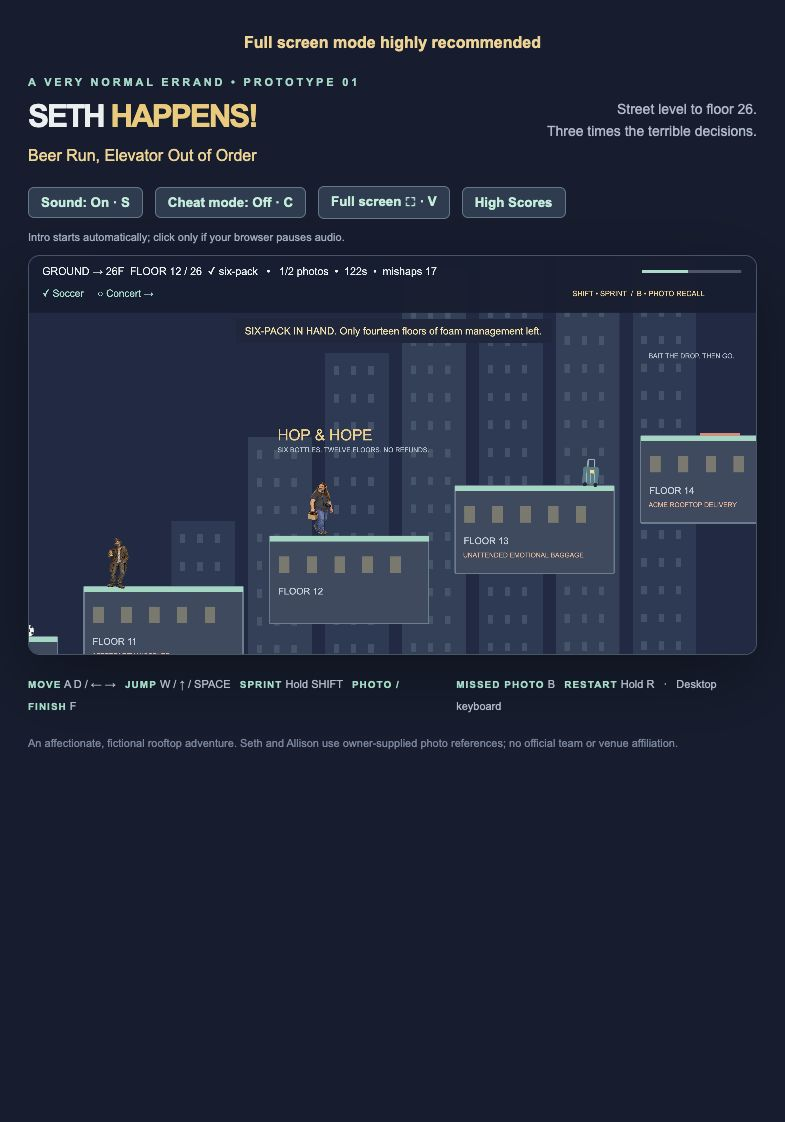
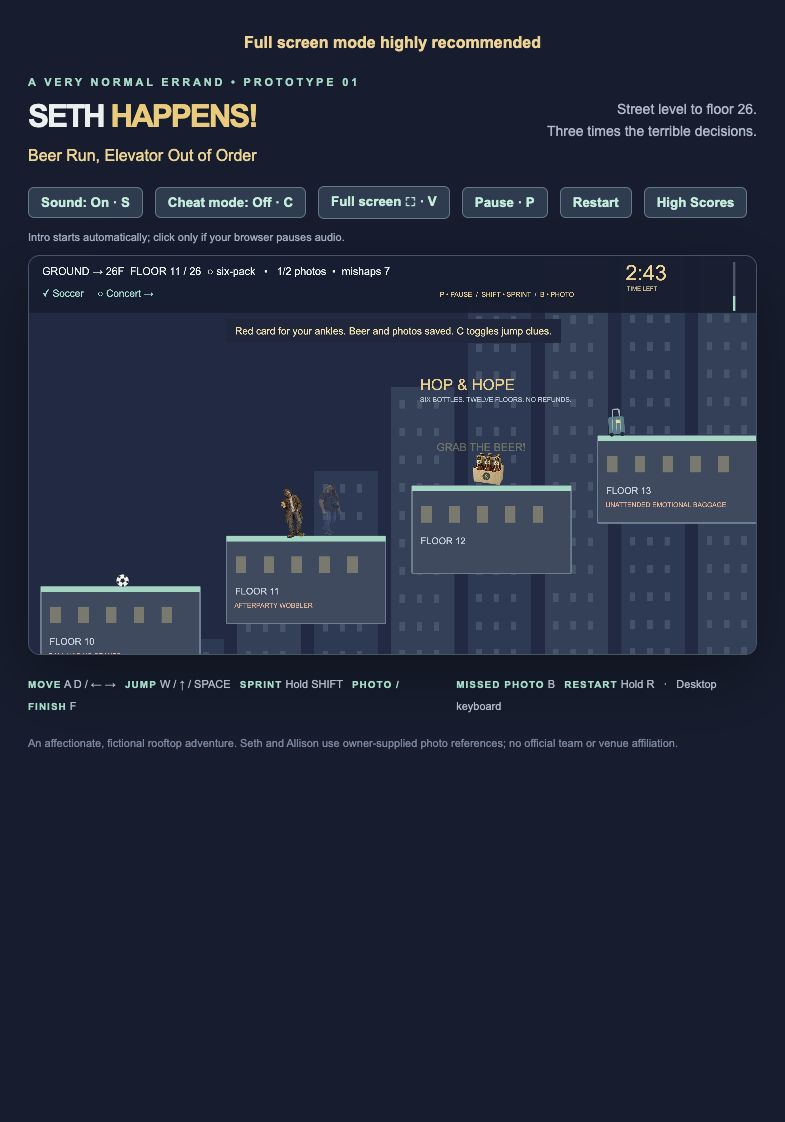
Improve pause, charged jumps, HUD and finish layouts

Changed region(s): [[0.0306, 0.156, 0.9783, 0.5927], [0.3669, 0.2184, 0.5197, 0.2496], [0.2446, 0.2184, 0.3057, 0.2496]]

diff --git a/src/main.ts b/src/main.ts
@@ -5,7 +5,7 @@ import { impactEffects } from './impact-effects';
 import { gameAudio } from './audio';
 import { soccerBall, steelKeg, sixPack } from './props';
 import { walkLayout } from './art-layout';
-import { fallDecision, runExpired, RUN_LIMIT_MS, SPRINT_SPEED, timeBonus, finalScore, roadLandingIsFall, fallingStep, patrolX, EGG, fallingAssignments, floors, photoStops, beerSpot, recordMishap, RESTART_HOLD_MS, missing, missedPhotos, photoIndicator, LEVEL_WIDTH, GROUND_Y, ROAD, objectImpactReaction } from './mission.mjs';
+import { MEGA_CHARGE_MS, REGULAR_JUMP_SPEED, MEGA_JUMP_SPEED, jumpChoice, countdownLabel, fallDecision, runExpired, RUN_LIMIT_MS, SPRINT_SPEED, timeBonus, finalScore, roadLandingIsFall, fallingStep, patrolX, EGG, fallingAssignments, floors, photoStops, beerSpot, recordMishap, RESTART_HOLD_MS, missing, missedPhotos, photoIndicator, LEVEL_WIDTH, GROUND_Y, ROAD, FLOOR_RISE, objectImpactReaction } from './mission.mjs';
 
 const W = 1100, H = 600;
 // Render at display density, retaining the same logical play area and physics.
@@ -25,7 +25,9 @@ class Errand extends Phaser.Scene {
   progress!: Phaser.GameObjects.Rectangle;
   crate!: Phaser.GameObjects.Container; hero!: Phaser.GameObjects.Container; portrait!: Phaser.GameObjects.Sprite;
   elapsedMs=0;failed=false;cheater=false;riding=false;rideTween?:Phaser.Tweens.Tween;
-  jumpStartedAt=0;jumpVoiced=true;jumpCount=0;
+  chargeStarted=-1;jumpCount=0;
+  paused=false;pauseStarted=0;pauseOverlay!:Phaser.GameObjects.Container;chargeMeter!:Phaser.GameObjects.Container;chargeFill!:Phaser.GameObjects.Rectangle;
+  timerText!:Phaser.GameObjects.Text;
   eggStage=0;eggPreviousX=75;eggBall!:Phaser.GameObjects.Container;eggLift!:Phaser.GameObjects.Container;
   eggLabel!:Phaser.GameObjects.Text;liftHint!:Phaser.GameObjects.Text;eggBlocks:Phaser.GameObjects.Rectangle[]=[];
   scorePaused=false;
@@ -42,6 +44,7 @@ class Errand extends Phaser.Scene {
   preload(){
     this.load.spritesheet('seth-walk','./assets/seth-walk.png',walkLayout);
     this.load.image('allison','./assets/allison.png');
+    this.load.image('beer-pickup','./assets/beer-pickup.png');
     this.load.image('title-logo','./assets/title-logo.png');
     this.load.image('clown','./assets/clown.png');
     this.load.image('scruffy','./assets/scruffy-pedestrian.png');
@@ -54,7 +57,7 @@ class Errand extends Phaser.Scene {
     resetScoreEntry();this.scorePaused=false;
     this.input.keyboard!.enabled=true;
     this.elapsedMs=0;this.failed=false;this.cheater=false;this.riding=false;this.rideTween=undefined;
-    this.jumpStartedAt=0;this.jumpVoiced=true;this.jumpCount=0;this.eggStage=0;this.eggPreviousX=75;this.eggBlocks=[];
+    this.chargeStarted=-1;this.jumpCount=0;this.paused=false;this.eggStage=0;this.eggPreviousX=75;this.eggBlocks=[];
     this.mishaps={falls:0,squishes:0,bumps:0};this.restartSince=null;
     this.runVersion++;this.onRoad=true;this.fallSoundPlayed=false;this.heroHeard=false;this.heroPlaying=false;
     gameAudio.beginRun();this.introActive=true;this.introStarted=false;
@@ -74,7 +77,7 @@ class Errand extends Phaser.Scene {
     this.label(12,ROAD.y+76,'ROAD • START HERE','#e9d2a0',12);
     this.label(12,ROAD.y+98,'Jump onto floor 01 →','#aec3d0',10);
     for(const f of floors.slice(1)){
-      const facadeHeight=f.floor===1?ROAD.y-f.y+95:Math.max(14,Math.min(132,ROAD.y-f.y-86));
+      const facadeHeight=f.floor===1?ROAD.y-f.y:Math.max(14,Math.min(132,ROAD.y-f.y-86));
       this.add.rectangle(f.x+f.width/2,f.y+facadeHeight/2,f.width,facadeHeight,0x344b61).setStrokeStyle(2,0x607d91);
       const ledge=this.add.rectangle(f.x+f.width/2,f.y+4,f.width,8,0x78dbc3,0);
       platforms.add(ledge);
@@ -102,27 +105,38 @@ class Errand extends Phaser.Scene {
     for(const [key,frames] of [['walk-empty',[0,1,2,3]],['walk-beer',[4,5,6,7]]] as const){
       if(!this.anims.exists(key))this.anims.create({key,frames:frames.map(frame=>({key:'seth-walk',frame})),frameRate:8,repeat:-1});
     }
-    this.hero.add(this.portrait).setDepth(5);
+    this.chargeFill=this.add.rectangle(-22,-96,0,5,0xffcc7b).setOrigin(0,.5);
+    this.chargeMeter=this.add.container(0,0,[this.add.rectangle(0,-96,46,8,0x102137),this.chargeFill,this.label(-34,-116,'MEGA CHARGE','#ffd08b',9)]).setVisible(false);
+    this.hero.add([this.portrait,this.chargeMeter]).setDepth(5);
     this.physics.world.setBounds(0,0,LEVEL_WIDTH,GROUND_Y+800);
     this.cameras.main.setBounds(0,300,LEVEL_WIDTH,GROUND_Y+240-300);
     this.cameras.main.startFollow(this.player,true,.12,.12,-120,90);
-    this.keys=this.input.keyboard!.addKeys('A,D,W,LEFT,RIGHT,UP,SPACE,F,R,B,S,C,SHIFT') as Record<string,Phaser.Input.Keyboard.Key>;
+    this.keys=this.input.keyboard!.addKeys('A,D,W,LEFT,RIGHT,UP,SPACE,F,R,B,S,C,SHIFT,P') as Record<string,Phaser.Input.Keyboard.Key>;
     this.input.keyboard!.addCapture(['SPACE','UP','DOWN','LEFT','RIGHT']);
     const cheatButton=document.getElementById('cheat-toggle') as HTMLButtonElement;
     cheatButton.disabled=this.introActive;
     cheatButton.onclick=()=>{this.toggleCheats();cheatButton.blur();};
+    const pauseButton=document.getElementById('pause-toggle') as HTMLButtonElement;
+    pauseButton.textContent='Pause · P';pauseButton.setAttribute('aria-pressed','false');
+    const restartButton=document.getElementById('restart-run') as HTMLButtonElement;
+    restartButton.disabled=true;restartButton.onclick=()=>{restartButton.blur();this.scene.restart();};
+    pauseButton.disabled=true;pauseButton.onclick=()=>{this.togglePause();pauseButton.blur();};
     this.syncCheatButton();
-    this.input.keyboard!.on('keydown',()=>{if(scoresOpen())return;if(this.introActive){void gameAudio.unlock();void this.startIntro();}else void gameAudio.unlock();});
-    this.input.on('pointerdown',()=>{if(this.introActive){void gameAudio.unlock();void this.startIntro();}else void gameAudio.unlock();});
+    this.input.keyboard!.on('keydown',(event:KeyboardEvent)=>{if(scoresOpen()||this.paused||event.code==='KeyP')return;if(this.introActive){void gameAudio.unlock();void this.startIntro();}else void gameAudio.unlock();});
+    this.input.on('pointerdown',()=>{if(this.paused)return;if(this.introActive){void gameAudio.unlock();void this.startIntro();}else void gameAudio.unlock();});
     const pattern: [number,HazardKind][] = [[2,'keg'],[3,'partier'],[4,'ball'],[5,'pigeon'],[8,'keg'],[9,'clown'],[10,'ball'],[11,'partier'],[13,'suitcase'],[15,'ball'],[16,'cone'],[18,'clown'],[19,'keg'],[21,'pigeon'],[22,'suitcase'],[24,'ball'],[25,'partier']];
     pattern.push(...fallingAssignments as [number,HazardKind][]);
     pattern.forEach(([floor,kind])=>this.addHazard(floor,kind));
     this.add.rectangle(W/2,42,W,84,0x101e32,.97).setScrollFactor(0).setDepth(10);
+    this.timerText=this.label(900,7,'3:00','#ffd08b',32).setScrollFactor(0).setDepth(12);
+    this.label(902,43,'TIME LEFT','#d0b58e',9).setScrollFactor(0).setDepth(12);
     this.hud=this.label(20,13,'','#eaf3f1',16).setScrollFactor(0).setDepth(11);
     this.photoHud=this.label(20,47,'','#80e5ce',15).setScrollFactor(0).setDepth(11);
-    this.label(820,49,'SHIFT • SPRINT  /  B • PHOTO RECALL','#ffcf8a',11).setScrollFactor(0).setDepth(11);
-    this.add.rectangle(1000,22,150,5,0x43586b).setScrollFactor(0).setDepth(11);
-    this.progress=this.add.rectangle(925,22,0,5,0x7ee0c5).setOrigin(0,.5).setScrollFactor(0).setDepth(12);
+    this.label(620,51,'P • PAUSE  /  SHIFT • SPRINT  /  B • PHOTO','#ffcf8a',10).setScrollFactor(0).setDepth(11);
+    this.label(1064,4,'26F','#b7d4d8',9).setOrigin(.5,0).setScrollFactor(0).setDepth(12);
+    this.label(1064,68,'0F','#b7d4d8',9).setOrigin(.5,0).setScrollFactor(0).setDepth(12);
+    this.add.rectangle(1064,43,4,44,0x43586b).setScrollFactor(0).setDepth(11);
+    this.progress=this.add.rectangle(1064,65,4,44,0x7ee0c5).setOrigin(.5,1).setScrollFactor(0).setDepth(12);
     this.toast=this.add.text(W/2,112,'Allison: “Ground floor. Beer. Two photos. Meet us at 2601. The elevator quit.”',{fontFamily:'Arial',fontSize:'15px',color:'#ffe0a3',backgroundColor:'#16283e',padding:{x:14,y:10},align:'center'}).setOrigin(.5).setScrollFactor(0).setDepth(12);
     this.prompt=this.add.text(W/2,555,'',{fontFamily:'Arial',fontSize:'16px',color:'#102c39',backgroundColor:'#7ce3c5',padding:{x:14,y:9},align:'center'}).setOrigin(.5).setScrollFactor(0).setDepth(12).setVisible(false);
     this.showIntro();
@@ -160,6 +174,8 @@ class Errand extends Phaser.Scene {
     if(!this.sys.isActive())return;
     this.introActive=false;this.introOverlay.destroy();
     (document.getElementById('cheat-toggle') as HTMLButtonElement).disabled=false;
+    (document.getElementById('pause-toggle') as HTMLButtonElement).disabled=false;
+    (document.getElementById('restart-run') as HTMLButtonElement).disabled=false;
     this.lastGround=-1000;this.jumpUntil=0;
     for(const key of Object.values(this.keys))key.reset();
     this.physics.world.resume();
@@ -204,7 +220,7 @@ class Errand extends Phaser.Scene {
     const at=(floor:number)=>floors[floor];
     this.label(20,GROUND_Y-182,'THE ONLY WAY IS UP.', '#ffce88',23);
     this.label(20,GROUND_Y-150,'Allison & the cats are waiting at 2601.', '#b9d1df',13);
-    this.label(20,GROUND_Y-125,'Hold jump for height. Shift to sprint. C for clues.', '#7ee0c6',12);
+    this.label(20,GROUND_Y-125,'Tap jump • hold 0.65s for mega • Shift sprint', '#7ee0c6',12);
     this.label(20,GROUND_Y-102,'F at photo signs • Dodge the hazards', '#b9d1df',12);
     this.add.rectangle(29,ROAD.y-48,50,96,0x42566c).setStrokeStyle(2,0x91aabd);
     this.add.rectangle(29,ROAD.y-48,1,92,0x91aabd);
@@ -220,7 +236,7 @@ class Errand extends Phaser.Scene {
     this.add.rectangle(soccer.x+205,soccer.y-43,43,76,0x94bdc8,0).setStrokeStyle(3,0xd8e9df);
     soccerBall(this,soccer.x+201,soccer.y-10);
     const brew=at(12);this.label(brew.x+12,brew.y-165,'HOP & HOPE', '#ffcc84',23);this.label(brew.x+12,brew.y-136,'SIX BOTTLES. TWELVE FLOORS. NO REFUNDS.','#b1c6d4',10);
-    this.crate=sixPack(this,beerSpot.x,brew.y-14).setScale(.95);
+    this.crate=this.add.container(beerSpot.x,brew.y,[this.add.image(0,0,'beer-pickup').setOrigin(.5,1).setDisplaySize(52,52)]);
     this.beerHint=this.label(beerSpot.x-78,brew.y-67,'GRAB THE BEER!','#ffda78',16).setDepth(6);
     this.tweens.add({targets:this.beerHint,alpha:.3,duration:400,yoyo:true,repeat:-1});
     const concert=at(17);this.label(concert.x+8,concert.y-204,'THE EXPOSURE TRIANGLE', '#d5b6f2',17);this.label(concert.x+8,concert.y-180,'LIVE MUSIC BREAK','#9fb9cb',10);
@@ -319,15 +335,39 @@ class Errand extends Phaser.Scene {
   say(t:string){this.toast.setText(t);}
   retry(time:number,reason:string,reaction:'fall'|'person'|'object'|'squish'='object'){
     this.mishaps=recordMishap(this.mishaps,reaction);
+    this.chargeStarted=-1;this.chargeMeter.setVisible(false);
     this.retries++;(this.player.body as Phaser.Physics.Arcade.Body).reset(this.checkpoint.x,this.checkpoint.y);this.player.setVelocity(0,0);this.immuneUntil=time+1400;this.lastGround=-1000;this.jumpUntil=0;
     gameAudio.play('impact');if(reaction==='fall'&&!this.fallSoundPlayed)gameAudio.speak('Aaaaaah!','fall');if(reaction==='squish')gameAudio.speak('Squish!','squish');if(reaction==='person')gameAudio.speak('Well, excuse you.','person');if(reaction==='object'){const kind=objectImpactReaction(Math.random());gameAudio.speak(kind==='ouch'?'Ouch!':'Ahh!',kind);}this.cameras.main.shake(100,.003);this.say(reason+' Beer and photos saved. C toggles jump clues.');this.fallSoundPlayed=false;
   }
+  togglePause(){
+    if(this.introActive||this.won||this.failed||scoresOpen())return;
+    this.paused=!this.paused;
+    const button=document.getElementById('pause-toggle')!;
+    button.textContent=this.paused?'Resume · P':'Pause · P';button.setAttribute('aria-pressed',String(this.paused));
+    this.chargeStarted=-1;this.chargeMeter.setVisible(false);
+    if(this.paused){
+      this.pauseStarted=this.time.now;this.physics.world.pause();this.tweens.pauseAll();void gameAudio.setPaused(true);
+      this.pauseOverlay=this.add.container(0,0,[
+        this.add.rectangle(W/2,H/2,W,H,0x102137,.88),
+        this.add.text(W/2,265,'PAUSED',{fontFamily:'Arial',fontSize:'54px',fontStyle:'bold',color:'#ffd08b'}).setOrigin(.5),
+        this.add.text(W/2,330,'P or Resume to continue',{fontFamily:'Arial',fontSize:'21px',color:'#c9dde7'}).setOrigin(.5)
+      ]).setScrollFactor(0).setDepth(70);this.sharpenDisplay();
+    }else{
+      const duration=this.time.now-this.pauseStarted;this.immuneUntil+=duration;this.lastGround=-1000;this.jumpUntil=0;
+      this.pauseOverlay.destroy();this.tweens.resumeAll();void gameAudio.setPaused(false);
+      for(const key of Object.values(this.keys))key.reset();
+      if(!this.riding)this.physics.world.resume();
+    }
+  }
   updateHud(){
+    const progressFloor=this.riding?(ROAD.y-this.player.y-24)/FLOOR_RISE:this.floor;
+    this.progress.setSize(4,44*Phaser.Math.Clamp(progressFloor/26,0,1)).setOrigin(.5,1).setVisible(progressFloor>0);
     const remaining=Math.max(0,Math.ceil((RUN_LIMIT_MS-this.elapsedMs)/1000));
-    this.hud.setText(`GROUND → 26F  ${this.onRoad?'ROAD':`FLOOR ${this.floor} / 26`}  ${missing(this.beer,this.photos)}  •  ${remaining}s  •  mishaps ${this.retries}`);
-    this.hud.setColor(remaining<=20?'#ffac8c':'#eaf3f1');
+    this.hud.setText(`GROUND → 26F  ${this.onRoad?'ROAD':`FLOOR ${this.floor} / 26`}  ${missing(this.beer,this.photos)}  •  mishaps ${this.retries}`);
+    this.timerText.setText(countdownLabel(this.elapsedMs)).setColor(remaining<=20?'#ff7e79':'#ffd08b');
   }
   failRun(){
+    (document.getElementById('pause-toggle') as HTMLButtonElement).disabled=true;
     this.failed=true;gameAudio.cancelRide();this.riding=false;this.rideTween?.stop();this.player.setVelocity(0,0);
     this.physics.world.pause();this.prompt.setVisible(false);
     this.add.rectangle(W/2,H/2,W,220,0x102137,.97).setScrollFactor(0).setDepth(40);
@@ -407,6 +447,8 @@ class Errand extends Phaser.Scene {
 
   update(time:number,delta:number){
     if(!this.player)return;
+    if(Phaser.Input.Keyboard.JustDown(this.keys.P))this.togglePause();
+    if(this.paused){const live=document.getElementById('live-status');if(live){live.dataset.paused='true';live.dataset.sound=gameAudio.state;live.textContent='Paused. Press P to resume.';}return;}
     if(scoresOpen()){this.physics.world.pause();this.input.keyboard!.enabled=false;this.scorePaused=true;return;}
     if(this.scorePaused){this.input.keyboard!.enabled=true;this.scorePaused=false;for(const key of Object.values(this.keys))key.reset();if(!this.introActive&&!this.failed&&!this.won)this.physics.world.resume();}
     if(Phaser.Input.Keyboard.JustDown(this.keys.S))gameAudio.toggle();
@@ -415,7 +457,7 @@ class Errand extends Phaser.Scene {
     if(!this.won&&!this.failed&&runExpired(this.elapsedMs))this.failRun();
     if(this.riding){
       this.updateHud();const live=document.getElementById('live-status');
-      if(live){live.dataset.riding='true';live.dataset.elapsed=String(Math.round(this.elapsedMs));live.textContent='Elevator ascending to floor 26. '+this.hud.text;}
+      if(live){live.dataset.riding='true';live.dataset.x=String(Math.round(this.player.x));live.dataset.y=String(Math.round(this.player.y));live.dataset.elapsed=String(Math.round(this.elapsedMs));live.textContent='Elevator ascending to floor 26. '+this.hud.text;}
       return;
     }
     if(Phaser.Input.Keyboard.JustDown(this.keys.C))this.toggleCheats();
@@ -441,16 +483,21 @@ class Errand extends Phaser.Scene {
           else{this.fallSoundPlayed=false;this.onRoad=landed.floor===0;this.floor=landed.floor;this.checkpoint={x:landed.floor===0?this.player.x:landed.x+50,y:landed.y-24};}
         }
       }
+      const jumpHeld=['W','UP','SPACE'].some(k=>this.keys[k].isDown);
       if(['W','UP','SPACE'].some(k=>Phaser.Input.Keyboard.JustDown(this.keys[k])))this.jumpUntil=time+130;
-      if(this.jumpUntil>time&&time-this.lastGround<110){gameAudio.play('jump');this.jumpStartedAt=time;this.jumpVoiced=false;this.jumpCount++;this.player.setVelocityY(-520);this.jumpUntil=0;this.lastGround=-1000;}
-      if(!this.jumpVoiced){
-        const held=['W','UP','SPACE'].some(k=>this.keys[k].isDown);
-        if(!held||time-this.jumpStartedAt>=120){
-          gameAudio.speak(held?'Jump grunt':'Quick hop',held?'grunt':'quick',undefined,false,this.jumpCount%2?.97:1.04);
-          this.jumpVoiced=true;
+      if(this.chargeStarted<0&&this.jumpUntil>time&&time-this.lastGround<110){this.chargeStarted=this.elapsedMs;this.jumpUntil=0;}
+      if(this.chargeStarted>=0&&!body.blocked.down&&time-this.lastGround>=110){this.chargeStarted=-1;this.chargeMeter.setVisible(false);}
+      if(this.chargeStarted>=0){
+        const charge=this.elapsedMs-this.chargeStarted;
+        const choice=jumpChoice(charge,!jumpHeld);
+        this.chargeMeter.setVisible(true);this.chargeFill.width=44*Math.min(charge/MEGA_CHARGE_MS,1);
+        if(choice!=='charging'){
+          this.player.setVelocityY(-(choice==='mega'?MEGA_JUMP_SPEED:REGULAR_JUMP_SPEED));
+          this.player.setVelocityX(direction*(this.keys.SHIFT.isDown?SPRINT_SPEED:275));
+          this.chargeStarted=-1;this.chargeMeter.setVisible(false);this.lastGround=-1000;this.jumpCount++;
+          gameAudio.play('jump');gameAudio.speak(choice==='mega'?'Mega jump':'Quick hop',choice==='mega'?'grunt':'quick',undefined,false,this.jumpCount%2?.97:1.04);
         }
       }
-      if(!['W','UP','SPACE'].some(k=>this.keys[k].isDown)&&body.velocity.y < -230)this.player.setVelocityY(-230);
       this.player.x=Phaser.Math.Clamp(this.player.x,14,LEVEL_WIDTH-14);
       if(!this.fallSoundPlayed&&fallDecision(this.floor,body.bottom,body.velocity.y).scream){this.fallSoundPlayed=true;gameAudio.speak('Aaaaaah!','fall');}
       if(fallDecision(this.floor,body.bottom,body.velocity.y).retry)this.retry(time,'Gravity got the shot.','fall');
@@ -519,28 +566,27 @@ class Errand extends Phaser.Scene {
     else{this.portrait.stop();this.portrait.setFrame(this.beer?(body.blocked.down?5:4):(body.blocked.down?1:0));}
     this.portrait.setFlipX(this.facing<0).setY(24);
     this.hero.setAlpha(time<this.immuneUntil?(Math.floor(time/100)%2?.35:1):1);
-    this.progress.width=150*this.floor/26;
     this.updateHud();
     const indicator=photoIndicator(this.player.x,this.photos),hasMissed=missedPhotos(this.player.x,this.photos).length>0;
     this.photoHud.setText(indicator).setColor(hasMissed?'#ffac8c':'#80e5ce');
     const status=document.getElementById('live-status');
     const summary=`${this.hud.text}. ${indicator}. ${this.toast.text}${this.won?' Mission complete.':''}`;
-    if(status){status.dataset.floor=String(this.floor);status.dataset.elapsed=String(Math.round(this.elapsedMs));status.dataset.eggStage=String(this.eggStage);status.dataset.riding=String(this.riding);status.dataset.failed=String(this.failed);status.dataset.score=String(finalScore(this.beer,this.photos,this.mishaps,this.latePhotos,this.elapsedMs,this.cheater));status.dataset.falls=String(this.mishaps.falls);status.dataset.squishes=String(this.mishaps.squishes);status.dataset.bumps=String(this.mishaps.bumps);status.dataset.won=String(this.won);status.dataset.intro='false';status.dataset.heroPlaying=String(this.heroPlaying);status.dataset.fallSound=String(this.fallSoundPlayed);if(status.textContent!==summary)status.textContent=summary;status.dataset.x=String(Math.round(this.player.x));status.dataset.y=String(Math.round(this.player.y));status.dataset.grounded=String(body.blocked.down);status.dataset.walkFrame=String(this.portrait.frame.name);status.dataset.walkFrames=[...this.visitedWalkFrames].sort().join(',');status.dataset.carrying=String(this.beer);status.dataset.sound=gameAudio.state;status.dataset.muted=String(gameAudio.muted);status.dataset.lastCue=gameAudio.lastCue;status.dataset.voiceLine=gameAudio.lastSpoken;status.dataset.voiceStatus=gameAudio.voiceStatus;status.dataset.voiceName=gameAudio.voiceName;status.dataset.loadedVoices=String(gameAudio.loadedVoiceCount);status.dataset.playedVoices=[...gameAudio.playedKinds].sort().join(',');status.dataset.locationCue=gameAudio.lastLocation;status.dataset.heardLocations=[...this.heardLocations].sort().join(',');status.dataset.cheatMode=String(this.cheatMode);status.dataset.jumpClues=String(this.jumpClues.filter(clue=>clue.visible).length);const nearbyPiano=this.hazards.find(h=>h.kind==='piano'&&h.floor===this.floor);status.dataset.pianoDrops=String(nearbyPiano?.piano?.serial??0);status.dataset.pianoVisible=String(nearbyPiano?.art.visible??false);}
+    if(status){status.dataset.paused='false';status.dataset.charging=String(this.chargeStarted>=0);status.dataset.floor=String(this.floor);status.dataset.elapsed=String(Math.round(this.elapsedMs));status.dataset.eggStage=String(this.eggStage);status.dataset.riding=String(this.riding);status.dataset.failed=String(this.failed);status.dataset.score=String(finalScore(this.beer,this.photos,this.mishaps,this.latePhotos,this.elapsedMs,this.cheater));status.dataset.falls=String(this.mishaps.falls);status.dataset.squishes=String(this.mishaps.squishes);status.dataset.bumps=String(this.mishaps.bumps);status.dataset.won=String(this.won);status.dataset.intro='false';status.dataset.heroPlaying=String(this.heroPlaying);status.dataset.fallSound=String(this.fallSoundPlayed);if(status.textContent!==summary)status.textContent=summary;status.dataset.x=String(Math.round(this.player.x));status.dataset.y=String(Math.round(this.player.y));status.dataset.grounded=String(body.blocked.down);status.dataset.walkFrame=String(this.portrait.frame.name);status.dataset.walkFrames=[...this.visitedWalkFrames].sort().join(',');status.dataset.carrying=String(this.beer);status.dataset.sound=gameAudio.state;status.dataset.muted=String(gameAudio.muted);status.dataset.lastCue=gameAudio.lastCue;status.dataset.voiceLine=gameAudio.lastSpoken;status.dataset.voiceStatus=gameAudio.voiceStatus;status.dataset.voiceName=gameAudio.voiceName;status.dataset.loadedVoices=String(gameAudio.loadedVoiceCount);status.dataset.playedVoices=[...gameAudio.playedKinds].sort().join(',');status.dataset.locationCue=gameAudio.lastLocation;status.dataset.heardLocations=[...this.heardLocations].sort().join(',');status.dataset.cheatMode=String(this.cheatMode);status.dataset.jumpClues=String(this.jumpClues.filter(clue=>clue.visible).length);const nearbyPiano=this.hazards.find(h=>h.kind==='piano'&&h.floor===this.floor);status.dataset.pianoDrops=String(nearbyPiano?.piano?.serial??0);status.dataset.pianoVisible=String(nearbyPiano?.art.visible??false);}
   }
   finish(){
+    (document.getElementById('pause-toggle') as HTMLButtonElement).disabled=true;
     if(this.cheater)gameAudio.speak('Cheater!','cheater');else gameAudio.play('win');this.won=true;this.player.setVelocity(0,0);this.walking=false;this.prompt.setVisible(false);this.say('Allison: “You’re home! The elevator just got fixed.”');
-    this.add.rectangle(W/2,H/2+15,850,330,0x12253c,.98).setStrokeStyle(2,0x79dec5).setScrollFactor(0).setDepth(20);
-    this.add.text(W/2,205,'26 FLOORS. SETH HAPPENED.',{fontFamily:'Arial',fontSize:'35px',fontStyle:'bold',color:'#ffd08b'}).setOrigin(.5).setScrollFactor(0).setDepth(21);
+    this.add.rectangle(W/2,H/2,880,410,0x12253c,.98).setStrokeStyle(2,0x79dec5).setScrollFactor(0).setDepth(20);
+    this.add.text(W/2,160,'26 FLOORS. SETH HAPPENED.',{fontFamily:'Arial',fontSize:'34px',fontStyle:'bold',color:'#ffd08b'}).setOrigin(.5).setScrollFactor(0).setDepth(21);
     const score=finalScore(this.beer,this.photos,this.mishaps,this.latePhotos,this.elapsedMs,this.cheater);
-    this.add.text(W/2,270,`SCORE: ${score.toLocaleString()}`,{fontFamily:'Arial',fontSize:'30px',fontStyle:'bold',color:'#80e5ce'}).setOrigin(.5).setScrollFactor(0).setDepth(21);
-    const stats=`${this.cheater?'ELEVATOR SHORTCUT • CHEATER':`Time: ${(this.elapsedMs/1000).toFixed(1)}s • Time bonus: +${timeBonus(this.elapsedMs)}`}
-Falls: ${this.mishaps.falls}  •  Squished: ${this.mishaps.squishes}  •  Bumps: ${this.mishaps.bumps}
-Photos: ${this.photos.size}/2 (${this.latePhotos.size} at half value)  •  Six-pack: ${this.beer?'Delivered':'Not delivered'}
-1,000 finish + photos + beer − mishaps + time bonus
-
-Oakey wants the box. Ellowyn has booked your lap.
-Hold R to question your life choices again.`;
-    this.add.text(W/2,365,stats,{fontFamily:'Arial',fontSize:'17px',color:'#d5e8ec',align:'center',lineSpacing:9}).setOrigin(.5).setScrollFactor(0).setDepth(21);
+    this.add.text(W/2,220,`SCORE: ${score.toLocaleString()}`,{fontFamily:'Arial',fontSize:'36px',fontStyle:'bold',color:this.cheater?'#ffac8c':'#80e5ce'}).setOrigin(.5).setScrollFactor(0).setDepth(21);
+    const row=(y:number,text:string,color='#d5e8ec',size=17)=>this.add.text(W/2,y,text,{fontFamily:'Arial',fontSize:size+'px',color,align:'center'}).setOrigin(.5).setScrollFactor(0).setDepth(21);
+    row(270,this.cheater?'ELEVATOR SHORTCUT • CHEATER':`Time: ${(this.elapsedMs/1000).toFixed(1)}s • Time bonus: +${timeBonus(this.elapsedMs)}`,this.cheater?'#ffac8c':'#80e5ce',19);
+    row(309,`Falls: ${this.mishaps.falls}  •  Squished: ${this.mishaps.squishes}  •  Bumps: ${this.mishaps.bumps}`);
+    row(340,`Photos: ${this.photos.size}/2 (${this.latePhotos.size} at half value)  •  Six-pack: ${this.beer?'Delivered':'Not delivered'}`);
+    row(373,this.cheater?'Fixed shortcut score: −10,000. Objectives and time bonuses do not apply.':'1,000 finish + photos + beer − mishaps + time bonus','#a8becd',15);
+    row(426,'Oakey wants the box. Ellowyn has booked your lap.');
+    row(465,'Hold R to question your life choices again.','#ffcf91');
     this.sharpenDisplay();this.updateHud();
     const live=document.getElementById('live-status');
     if(live){live.dataset.riding='false';live.dataset.floor=String(this.floor);live.dataset.won='true';live.dataset.score=String(score);live.textContent=`Run complete. Score ${score}. ${this.cheater?'CHEATER elevator shortcut.':''}`;}

diff --git a/index.html b/index.html
@@ -1,1 +1,1 @@
-<!doctype html><html lang="en"><head><meta charset="UTF-8"><meta name="viewport" content="width=device-width, initial-scale=1"><title>Seth Happens - Beer Run, Elevator Out of Order</title></head><body><main><p id="fullscreen-recommendation">Full screen mode highly recommended</p><header><div><span class="eyebrow">A VERY NORMAL ERRAND • PROTOTYPE 01</span><h1>SETH <em>HAPPENS!</em></h1><p class="game-subtitle">Beer Run, Elevator Out of Order</p></div><p>Street level to floor 26.<br>Three times the terrible decisions.</p></header><div class="sound-row"><button id="sound-toggle" type="button" aria-pressed="true">Sound: On · S</button><button id="cheat-toggle" type="button" aria-pressed="false">Cheat mode: Off · C</button><button id="fullscreen-toggle" type="button" aria-label="Enter fullscreen">Full screen ⛶ · V</button><button id="high-scores" type="button">High Scores</button><span>Intro starts automatically; click only if your browser pauses audio.</span></div><section id="game" aria-label="Seth Happens - Beer Run, Elevator Out of Order platform game"><button id="fullscreen-exit" type="button">Exit full screen · V / Esc</button></section><footer><span><b>MOVE</b> A D / ← → &nbsp; <b>JUMP</b> W / ↑ / SPACE &nbsp; <b>SPRINT</b> Hold SHIFT &nbsp; <b>PHOTO / FINISH</b> F</span><span><b>MISSED PHOTO</b> B &nbsp; <b>RESTART</b> Hold R &nbsp; · &nbsp; Desktop keyboard</span></footer><p class="note">An affectionate, fictional rooftop adventure. Seth and Allison use owner-supplied photo references; no official team or venue affiliation.</p><p id="live-status" class="sr-only" role="status" aria-live="polite"></p></main><script type="module" src="/src/main.ts"></script></body></html>
+<!doctype html><html lang="en"><head><meta charset="UTF-8"><meta name="viewport" content="width=device-width, initial-scale=1"><title>Seth Happens - Beer Run, Elevator Out of Order</title></head><body><main><p id="fullscreen-recommendation">Full screen mode highly recommended</p><header><div><span class="eyebrow">A VERY NORMAL ERRAND • PROTOTYPE 01</span><h1>SETH <em>HAPPENS!</em></h1><p class="game-subtitle">Beer Run, Elevator Out of Order</p></div><p>Street level to floor 26.<br>Three times the terrible decisions.</p></header><div class="sound-row"><button id="sound-toggle" type="button" aria-pressed="true">Sound: On · S</button><button id="cheat-toggle" type="button" aria-pressed="false">Cheat mode: Off · C</button><button id="fullscreen-toggle" type="button" aria-label="Enter fullscreen">Full screen ⛶ · V</button><button id="pause-toggle" type="button" aria-pressed="false" disabled>Pause · P</button><button id="restart-run" type="button" disabled>Restart</button><button id="high-scores" type="button">High Scores</button><span>Intro starts automatically; click only if your browser pauses audio.</span></div><section id="game" aria-label="Seth Happens - Beer Run, Elevator Out of Order platform game"><button id="fullscreen-exit" type="button">Exit full screen · V / Esc</button></section><footer><span><b>MOVE</b> A D / ← → &nbsp; <b>JUMP</b> W / ↑ / SPACE &nbsp; <b>SPRINT</b> Hold SHIFT &nbsp; <b>PHOTO / FINISH</b> F</span><span><b>MISSED PHOTO</b> B &nbsp; <b>RESTART</b> Hold R &nbsp; · &nbsp; Desktop keyboard</span></footer><p class="note">An affectionate, fictional rooftop adventure. Seth and Allison use owner-supplied photo references; no official team or venue affiliation.</p><p id="live-status" class="sr-only" role="status" aria-live="polite"></p></main><script type="module" src="/src/main.ts"></script></body></html>

diff --git a/src/audio.ts b/src/audio.ts
@@ -3,6 +3,8 @@ type Cue = 'jump' | 'photo' | 'pickup' | 'impact' | 'miss' | 'win' | 'piano' | '
 /** Original synthesized effects; nothing downloaded and no audio service. */
 class GameAudio {
   private context?: AudioContext;
+  private paused=false;
+  private pausedAt=0;
   private master?: GainNode;
   private effects?: GainNode;
   private noise?: AudioBuffer;
@@ -34,9 +36,15 @@ class GameAudio {
       const data = this.noise.getChannelData(0);
       for (let i=0;i<data.length;i++) data[i] = (Math.random()*2-1)*(1-i/data.length);
     }
-    if (this.context.state === 'suspended') await this.context.resume();
+    if (this.context.state === 'suspended'&&!this.paused) await this.context.resume();
     this.syncButton();
     await this.loadVoices();
+  }
+  async setPaused(paused:boolean){
+    if(this.paused===paused)return;
+    this.paused=paused;
+    if(paused){this.pausedAt=performance.now();if(this.context?.state==='running')await this.context.suspend();}
+    else{if(this.voiceSource)this.voiceUntil+=performance.now()-this.pausedAt;if(this.context?.state==='suspended')await this.context.resume();}
   }
   toggle() { this.muted = !this.muted;if(this.muted){if(this.activeKind!=='start'&&this.activeKind!=='hero')this.stopVoice();this.stopLocations();} if(this.master&&this.context)this.master.gain.setValueAtTime(this.muted?0:.8,this.context.currentTime);this.syncButton(); }
   private syncButton() {
@@ -44,7 +52,7 @@ class GameAudio {
     if(button){button.textContent=`Sound: ${this.muted?'Off':'On'} · S`;button.setAttribute('aria-pressed',String(!this.muted));button.dataset.context=this.state;}
   }
   beginRun(){
-    this.cancelRide();this.stopVoice();this.stopLocations();this.lastSpoken='';this.lastLocation='';
+    void this.setPaused(false);this.cancelRide();this.stopVoice();this.stopLocations();this.lastSpoken='';this.lastLocation='';
   }
   private stopLocations(){for(const source of this.locationSources)source.stop();this.locationSources.clear();}
   playLocation(kind:LocationCue){

diff --git a/README.md b/README.md
@@ -2,7 +2,9 @@
 
 ![Seth Happens - Beer Run, Elevator Out of Order](public/assets/title-logo.png)
 
-**[Play in your browser](https://natsteff.github.io/seth-happens/)** · Fullscreen highly recommended.
+[![Play Now! Launch Seth Happens Beer Run](docs/play-now.svg)](https://natsteff.github.io/seth-happens/)
+
+Fullscreen highly recommended.
 
 One six-pack. Two photos. Twenty-six floors. Get Seth home to Allison, Oakey and Ellowyn before the three-minute deadline.
 
@@ -11,8 +13,9 @@ One six-pack. Two photos. Twenty-six floors. Get Seth home to Allison, Oakey and
 | Action | Key |
 | --- | --- |
 | Move | A / D or ← / → |
-| Jump | Space, W or ↑; hold for height, tap for a short hop |
+| Jump | Space, W or ↑; release for a regular hop, hold 0.65s to charge a mega jump |
 | Sprint | Hold Shift |
+| Pause / resume | P or Pause button |
 | Photo / finish / enter elevator | F |
 | Return to a missed photo | B |
 | Sound | S |
@@ -32,7 +35,7 @@ Rolling and walking obstacles patrol the whole floor. Pianos, anvils, window AC 
 - Each fall, squish or bump: −10, counting each incident once.
 - Finish under **120 seconds**: +100 for each whole second saved. A 90-second finish earns +3,000. Fractional seconds round up before calculating the bonus.
 - At 180 seconds, the run fails and no score is saved.
-- Intro and high-score dialogs pause the clock; ordinary play, photo recovery and the elevator journey use time.
+- Intro and high-score dialogs pause the clock. P pauses gameplay, countdown, animations and audio, including a synchronized elevator ride. Resume continues from the same point.
 
 Names and scores stay in that browser, including earlier versions’ records. The top 10 and full history show dates, times, objectives and mishaps. Clearing requires the configured password and confirmation. The browser stores a password verifier, not the readable password; this deters casual clearing but is not server authentication. Browser storage can be cleared independently.
 

diff --git a/THIRD_PARTY_NOTICES.md b/THIRD_PARTY_NOTICES.md
@@ -9,3 +9,5 @@ Build tools: Vite 8.3.5 (MIT), TypeScript 7.0.2 (Apache-2.0). These are developm
 Original source/art: project-owned; no additional redistribution license is granted. Third-party rights remain with their respective owners.
 
 The title logo and five additional WAV recordings (elevator, goal, crashing, quick jump, cheater) were supplied by the project owner October 26, 2026. The quiet final tower and impact debris are original code-drawn artwork.
+
+The realistic six-pack pickup (public/assets/beer-pickup.png) was generated with the built-in image-generation tool from an original prompt: six amber bottles in a tan cardboard carrier, transparent background, no commercial branding. The Play Now graphic is original SVG artwork.
